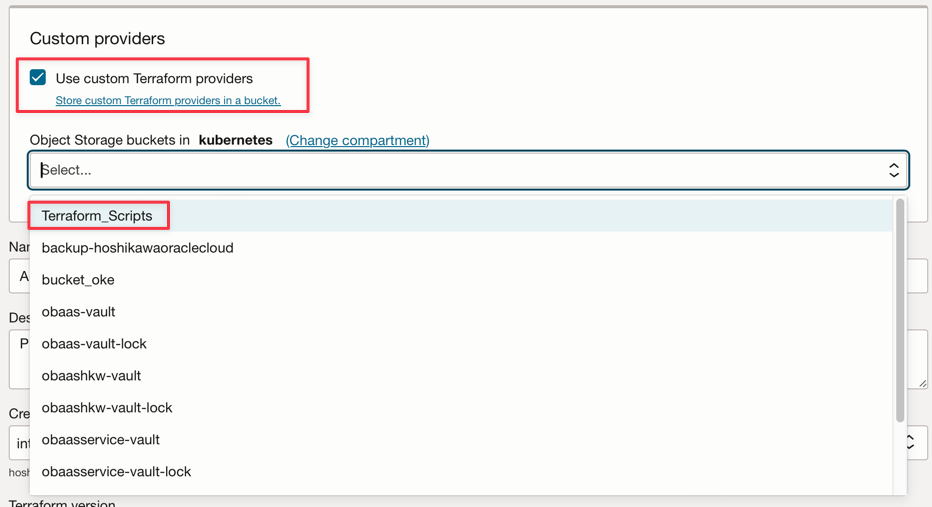
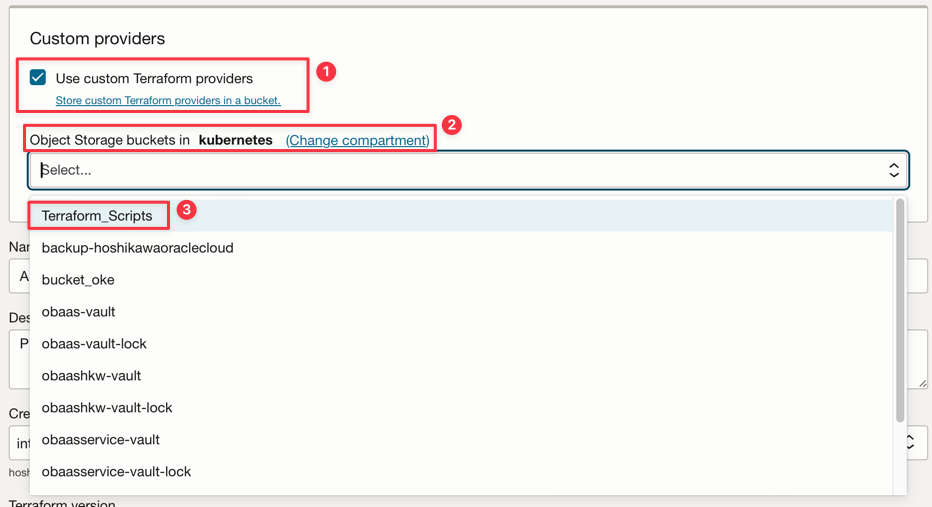
First Commit

Changed region(s): [[0.0, 0.2071, 0.4979, 0.3254], [0.3423, 0.1183, 0.3734, 0.1775], [0.1867, 0.3846, 0.2178, 0.4438]]

diff --git a/README.md b/README.md
@@ -24,7 +24,8 @@ The Terraform script will be executed through the OCI Resource Manager and the u
 ## Pre Requirements
 
 - Have an user inside an user group without any Policy. This user will be given the appropriate permissions to run Terraform in OCI Resource Manager
- 
+- An **OCI Object Storage** bucket created previously in a specific compartment (if you want to generate the **Terraform** script into this bucket)
+
 ## Task - Create a Secret for Autonomous Database in OCI Vault
 
 >**Note:** For this step, we need to log in with an Admin user in OCI.
@@ -37,6 +38,20 @@ The Terraform script will be executed through the OCI Resource Manager and the u
 ![img.png](img.png)
 
 ![CleanShot 2024-04-15 at 21.26.11.png](CleanShot%202024-04-15%20at%2021.26.11.png)
+
+    This policy gives the permission to group TestGroup created previously to manage a Stack and jobs in Resource Manager
+    - Allow group 'Default'/'TestGroup' to manage orm-stacks in compartment integration
+    - Allow group 'Default'/'TestGroup' to manage orm-jobs in compartment integration
+    - Allow group 'Default'/'TestGroup' to read orm-config-source-providers in tenancy
+
+    This policy gives the right to create an Autonomous Database instance in the compartment integration
+    - Allow group 'Default'/'TestGroup' to manage autonomous-database in compartment integration
+
+    The group can read the password stored in Vault/Secret through Terraform scripts 
+    - Allow group 'Default'/'TestGroup' to use secret-family in tenancy
+
+    This policy gives the right to save the Terraform scripts on a specific compartment
+    - Allow group 'Default'/'TestGroup' to manage all-resources in compartment kubernetes
 
 
 ## Task - Create a Stack from a Template
@@ -52,15 +67,48 @@ And go to **Developer Services** and **Resource Manager** / **Stacks**
 
 ![img_2.png](img_2.png)
 
-Select your **compartment** 
+Select your **compartment** and click on **Create stack** button
 
 ![CleanShot 2024-04-15 at 07.47.32.png](CleanShot%202024-04-15%20at%2007.47.32.png)
+
+Now select **Template** option and click on **Select template** button to choose to generate a **Terraform** script for the the **Autonomous Database** 
+
 ![CleanShot 2024-04-15 at 07.48.19.png](CleanShot%202024-04-15%20at%2007.48.19.png)
+
+In **Service** tab, find the **Autonomous Transaction Processing Database** option and click to mark this option and then click on **Select template** button 
+
 ![CleanShot 2024-04-15 at 07.49.57.png](CleanShot%202024-04-15%20at%2007.49.57.png)
+
+You can generate the **Terraform** scripts and store into a **OCI Object Storage** bucket.
+Select **Use custom Terraform providers**, then choose the bucket **compartment** and **name**.
+Save your **stack**
+
 ![CleanShot 2024-04-15 at 07.51.23.png](CleanShot%202024-04-15%20at%2007.51.23.png)
+
+You stack is saved 
+
 ![CleanShot 2024-04-15 at 07.54.01.png](CleanShot%202024-04-15%20at%2007.54.01.png)
+
+This template does not read the secret stored in your **OCI Vault**. To make the **Terraform** to read the **secret**, we need to change the code.
+
+Click on **Edit** select box and choose the **Edit Terraform configuration in code editor** option.
+
+![img_3.png](img_3.png)
+
+You can now edit the code. The default code generates a random string for the password
+
+**Figure 1 - main.tf** file
 ![CleanShot 2024-04-15 at 08.05.40.png](CleanShot%202024-04-15%20at%2008.05.40.png)
+
+**Figure 2 - main.tf** file
 ![CleanShot 2024-04-15 at 08.08.32.png](CleanShot%202024-04-15%20at%2008.08.32.png)
+
+You need to add a new data named **oci_secrets_secretbundle** and assign it to the attributes:
+
+- admin_password
+- 
+
+**Figure 3 - main.tf** file
 ![CleanShot 2024-04-15 at 08.28.07.png](CleanShot%202024-04-15%20at%2008.28.07.png)
 ![CleanShot 2024-04-15 at 08.30.15 substituir.png](CleanShot%202024-04-15%20at%2008.30.15%20substituir.png)
 ![CleanShot 2024-04-15 at 08.30.52.png](CleanShot%202024-04-15%20at%2008.30.52.png)
